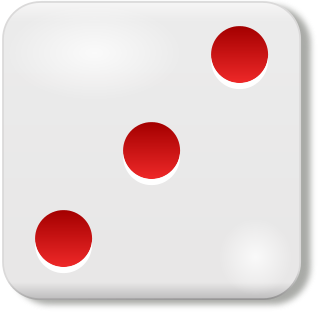
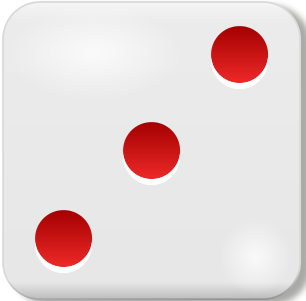
updated diceSlot CSS

diff --git a/src/components/TopJumbo/index.js b/src/components/TopJumbo/index.js
@@ -1,34 +1,67 @@
 import React, { Component } from "react";
 import { FormGroup, Input, Label, Small, FormBtn } from "../../components/Form";
-import Jumbotron from '../Jumbotron'
-import DiceSlots from '../DiceSlots'
+import DiceSlot from '../DiceSlot'
 
 class TopJumbo extends Component {
 
     state = {
-
+        dice: [
+            { value: 1, src: this.props.images[0] },
+            { value: 2, src: this.props.images[1] },
+            { value: 3, src: this.props.images[2] },
+            { value: 4, src: this.props.images[3] },
+            { value: 5, src: this.props.images[4] },
+            { value: 6, src: this.props.images[5] }
+        ],
+        diceSlots: [
+            { value: 1, src: this.props.images[0], held: false },
+            { value: 2, src: this.props.images[1], held: false },
+            { value: 3, src: this.props.images[2], held: false },
+            { value: 4, src: this.props.images[3], held: false },
+            { value: 5, src: this.props.images[4], held: false },
+            { value: 6, src: this.props.images[5], held: false }
+        ],
+        diceJSX: []
     }
 
     componentDidMount() {
+        let diceJSX = []
+        for (let i = 0; i < 5; i++) {
+            diceJSX.push(
+                <DiceSlot
+                    key={i}
+                    id={i}
+                    value={this.state.diceSlots[i].value}
+                    src={this.state.diceSlots[i].src}
+                />
+            )
+        }
+        this.setState({
+            diceJSX: diceJSX
+        })
+    }
 
+    shuffle = () => {
+        let randomDice = this.state.dice[Math.floor(Math.random() * this.state.dice.length)]
+        console.log(randomDice.value)
     }
 
     render() {
         return (
-            <Jumbotron>
-                <DiceSlots />
+            <div className="jumbotron" align="center">
+                <div className="row">
+                    {this.state.diceJSX}
+                </div>
                 <br></br>
                 <br></br>
                 <div className="row">
                     <div className="col">
-                        <FormBtn
-                            text="Shuffle"
-                            classes="btn-primary"
-                        // onClick={}
+                        <FormBtn text="Shuffle" classes="btn-primary"
+                        onClick={this.shuffle}
                         />
                     </div>
                 </div>
-            </Jumbotron>
+            </div>
         )
     }
 

diff --git a/src/components/DiceSlot/index.js b/src/components/DiceSlot/index.js
@@ -1,0 +1,35 @@
+import React, { Component } from "react";
+import { FormGroup, Input, Label, Small, FormBtn } from "../../components/Form";
+import './style.css'
+
+class DiceSlot extends Component {
+
+    state = {
+    }
+
+    componentDidMount() {
+
+    }
+
+    render() {
+        return (
+            <div className="col-sm diceSlot">
+                <div className="row">
+                    <div className="col">
+                        <img value={this.props.value} src={this.props.src}></img>
+                    </div>
+                </div>
+                <div className="row">
+                    <div className="col">
+                        <FormBtn text="Hold" classes="btn-danger"
+                        // onClick={}
+                        />
+                    </div>
+                </div>
+            </div>
+        )
+    }
+
+}
+
+export default DiceSlot

diff --git a/src/components/Game/index.js b/src/components/Game/index.js
@@ -2,21 +2,22 @@ import React, { Component } from "react";
 import { FormGroup, Input, Label, Small, FormBtn } from "../../components/Form";
 import TopJumbo from '../TopJumbo'
 import BottomJumbo from '../BottomJumbo'
+import Images from '../../imgImport'
 
 class Game extends Component {
 
     state ={
-
     }
 
     componentDidMount() {
-
     }
 
     render() {
         return (
             <div>
-                <TopJumbo />
+                <TopJumbo 
+                images={Images}
+                />
                 <BottomJumbo />
             </div>
         )

diff --git a/src/components/BottomJumbo/index.js b/src/components/BottomJumbo/index.js
@@ -1,6 +1,5 @@
 import React, { Component } from "react";
 import { FormGroup, Input, Label, Small, FormBtn } from "../../components/Form";
-import Jumbotron from '../Jumbotron'
 
 class BottomJumbo extends Component {
 
@@ -14,9 +13,9 @@ class BottomJumbo extends Component {
 
     render() {
         return (
-            <Jumbotron>
+            <div className="jumbotron" align="center">
                 Hello
-            </Jumbotron>
+            </div>
         )
     }
 

diff --git a/src/components/DiceSlot/style.css b/src/components/DiceSlot/style.css
@@ -1,4 +1,9 @@
 img {
     height: 100%;
     width: 100%;
+    border-radius: 13%;
+}
+
+.diceSlot {
+
 }
